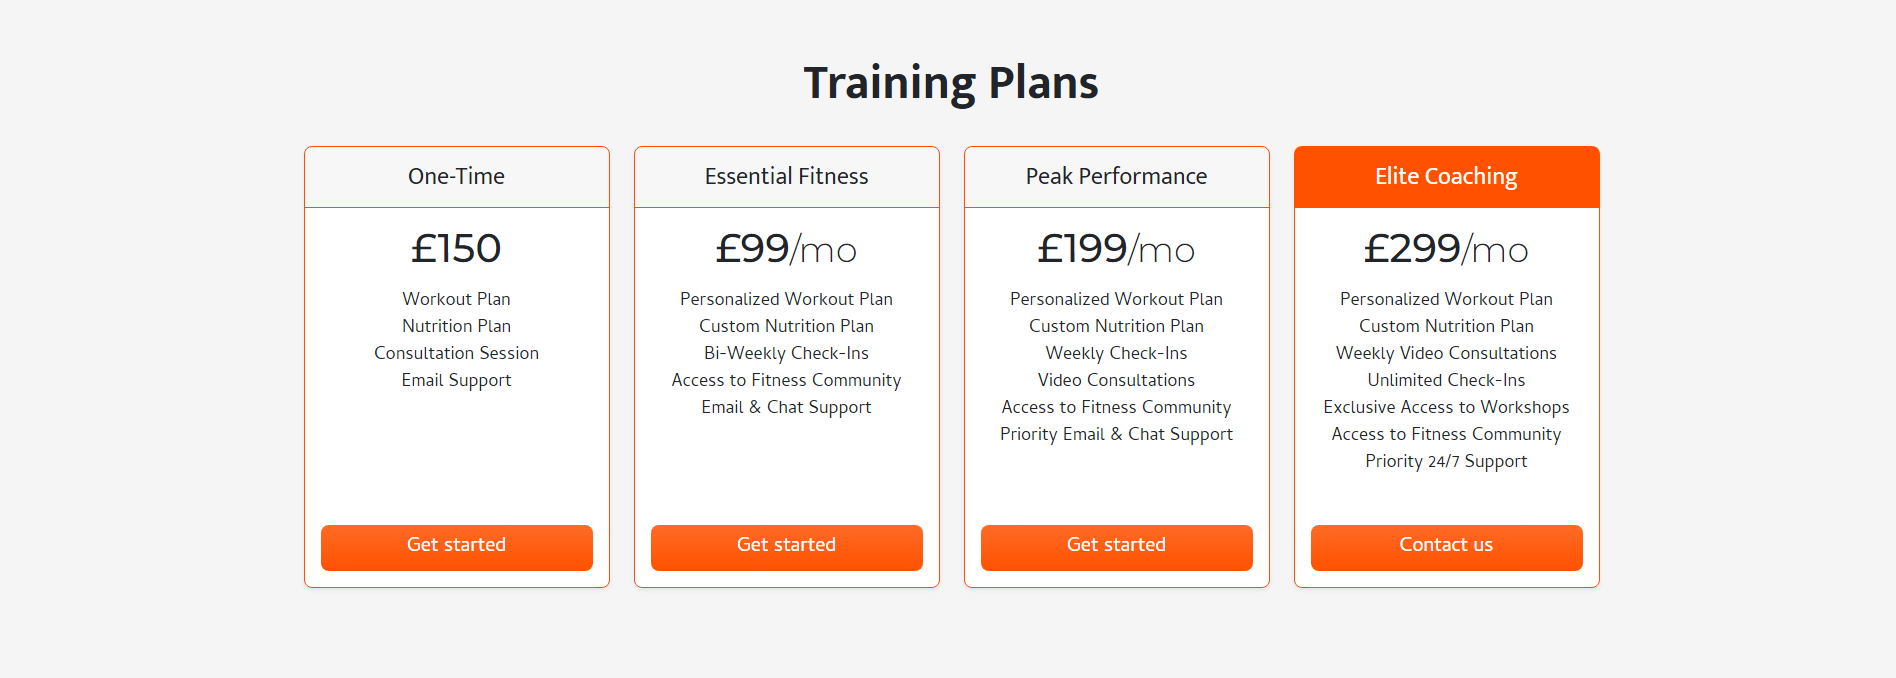
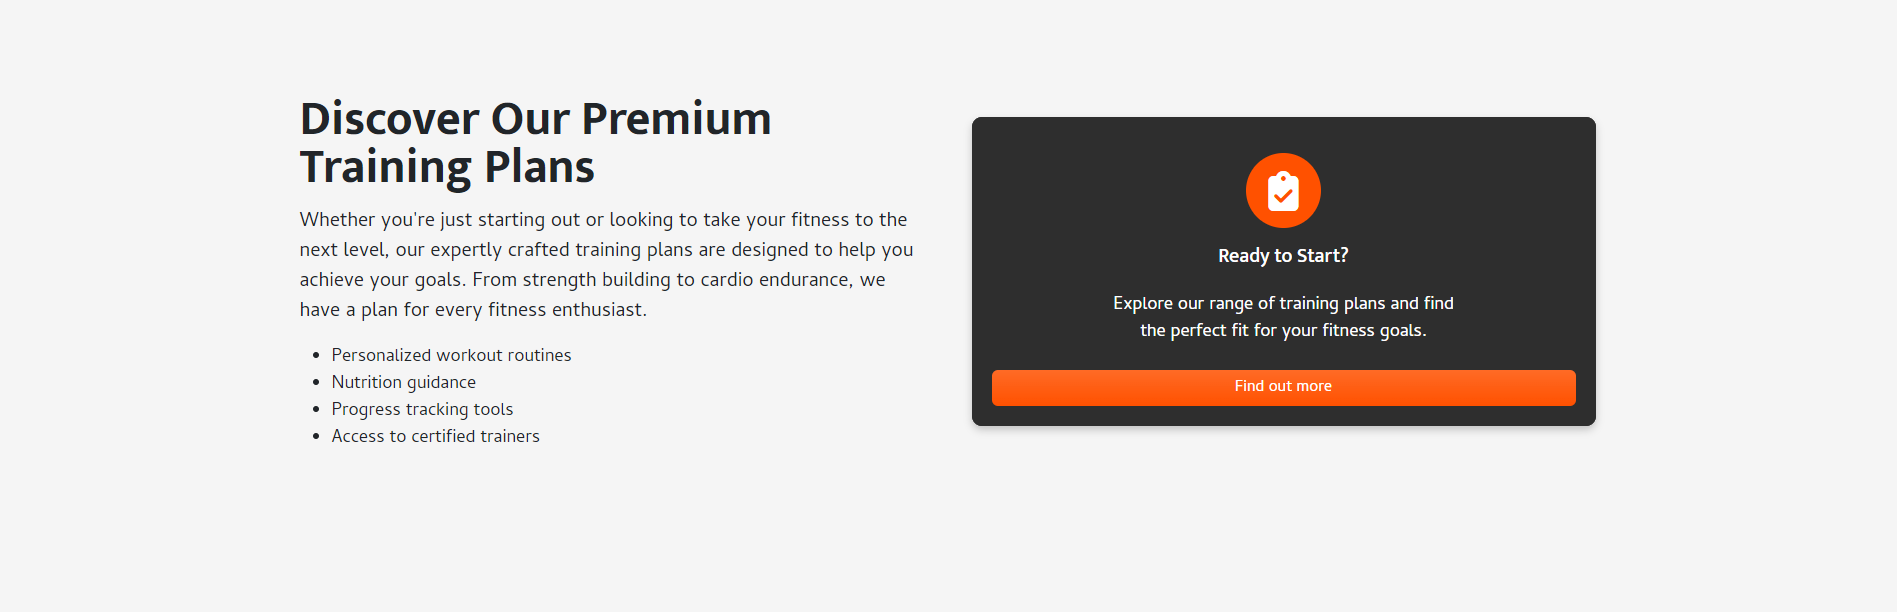
feat: add login page to features

diff --git a/home/templates/home/home.html b/home/templates/home/home.html
@@ -213,15 +213,15 @@
     <div class="container">
         <div class="row flex-lg-row align-items-center g-md-5 py-5">
             <div class="col-lg-6">
-                <h2 class="display-5 fw-bold text-body-emphasis lh-1 mb-3">Discover Our Premium Training Plans</h2>
+                <h2 class="display-5 fw-bold text-body-emphasis lh-1 mb-3">Discover my Premium Training Plans</h2>
                 <p class="coach-desc">Whether you're just starting out or looking to take your fitness to the next level, 
-                    our expertly crafted training plans are designed to help you achieve your goals.
-                    From strength building to cardio endurance, we have a plan for every fitness enthusiast.
+                    my expertly crafted training plans are designed to help you achieve your goals.
+                    From strength building to cardio endurance, I have a plan for every fitness enthusiast.
                     <ul>
                         <li>Personalized workout routines</li>
                         <li>Nutrition guidance</li>
                         <li>Progress tracking tools</li>
-                        <li>Access to certified trainers</li>
+                        <li>Access to a certified trainer</li>
                     </ul>
                 </p>
             </div>
@@ -238,7 +238,7 @@
                             Ready to Start?
                         </h5>
                         <p class="text-center my-3" style="max-width: 350px;">
-                            Explore our range of training plans and find the perfect fit for your fitness goals.
+                            Explore my range of training plans and find the perfect fit for your fitness goals.
                         </p>
                         <div class="col-12 text-center">
                             <a class="btn btn-primary mt-2 w-100 bg-gradient" href="{% url 'plans' %}">Find out more</a>

diff --git a/README.md b/README.md
@@ -59,6 +59,7 @@ I've used CSS `:root` variables to easily update the global colour scheme by cha
 :root {
 --primary-color: #353431;
 --primary-color-highlight: #FF5100;
+--secondary-color-highlight: #FF8F5C;
 /* Bootstrap overrides */
 --bs-body-bg: #f5f5f5;
 --bs-body-font-family: 'Cambay', sans-serif;
@@ -111,7 +112,7 @@ I've used [Figma](https://www.figma.com) to design my site mockups.
 <summary> Click here to see the Home Page Mock-ups</summary>
 
 #### Home
-  - ![screenshot](documentation/wireframes/home/home-mockup1.png)
+   - ![screenshot](documentation/wireframes/home/home-mockup1.png)
 
   - ![screenshot](documentation/wireframes/home/home-mockup2.png)
 
@@ -197,21 +198,21 @@ I've used [Figma](https://www.figma.com) to design my site mockups.
 
     - The site includes a fully responsive navigation bar that adapts to different screen sizes. On mobile devices, the navigation bar collapses into a toggleable menu, enhancing usability for users on the go. The navigation bar provides easy access to essential pages such as Home, About, Plans, FAQ, and Community, ensuring users can quickly navigate the site. For logged-in users, additional options like 'My Profile' and 'Logout' are available, making it easy to manage their account.
 
-![screenshot](documentation/features/feat-responsive-nav1.png)
-![screenshot](documentation/features/feat-responsive-nav2.png)
+		![screenshot](documentation/features/feat-responsive-nav1.png)
+		![screenshot](documentation/features/feat-responsive-nav2.png)
 
 - **Custom Logo**
 
     - The website features a custom logo prominently displayed in the navigation bar, reinforcing brand identity. This visual element helps establish trust and recognition, as users can immediately identify the JB Fit brand. The logo is linked to the homepage, allowing users to return to the main page with a single click.
 
-![screenshot](documentation/features/feat-logo.png)
+		![screenshot](documentation/features/feat-logo.png)
 
 - **Authentication Links**
 
     - Depending on the user's authentication status, the navigation bar dynamically displays relevant options. For unauthenticated users, 'Login' and 'Register' links are provided, encouraging new sign-ups and making it easy for returning users to log in. Authenticated users are presented with 'My Profile' and 'Logout' options, enabling seamless account management.
 
-![screenshot](documentation/features/feat-unauthenticated-user.png)
-![screenshot](documentation/features/feat-authenticated-user.png)
+		![screenshot](documentation/features/feat-unauthenticated-user.png)
+		![screenshot](documentation/features/feat-authenticated-user.png)
 
 ### Footer
 
@@ -219,25 +220,25 @@ I've used [Figma](https://www.figma.com) to design my site mockups.
 
     - The footer includes prominent social media links, allowing users to connect with JB Fit across multiple platforms like Facebook, Instagram, Twitter, LinkedIn, and YouTube. This integration helps build a community around the brand and keeps users engaged with the latest updates and content from JB Fit.
 
-![screenshot](documentation/features/feat-social-links.png)
+		![screenshot](documentation/features/feat-social-links.png)
 
 - **Newsletter Subscription Form**
 
 	- The footer also includes a newsletter subscription form, which is a valuable tool for maintaining communication with users. By subscribing, users receive monthly updates on fitness trends, promotions, and news. This feature is crucial for user retention and driving ongoing engagement.
 
-![screenshot](documentation/features/feat-newsletter.png)
+		![screenshot](documentation/features/feat-newsletter.png)
 
 - **Quick Links Section**
 
 	- A quick links section in the footer provides easy access to the most important pages on the site. This section is especially useful for users who may need to quickly navigate to another part of the site without returning to the top of the page.
 
-![screenshot](documentation/features/feat-quick-links.png)
+		![screenshot](documentation/features/feat-quick-links.png)
 
 - **Custom Footer Branding**
 
 	- The footer is customized to include JB Fit’s branding, including a copyright notice and branding colors. This consistent branding across the site enhances the professional appearance and reinforces the site’s identity.
 
-![screenshot](documentation/features/feat-footer.png)
+		![screenshot](documentation/features/feat-footer.png)
 
 ### Home Page
 
@@ -245,43 +246,43 @@ I've used [Figma](https://www.figma.com) to design my site mockups.
 
     - The hero section is the first thing users see when they visit the website. It features a strong, compelling headline and a call-to-action button that encourages users to start their fitness journey. This section is visually impactful, with a background image that sets the tone for the site, and a clear value proposition that appeals to users looking for personal online fitness coaching.
 
-![screenshot](documentation/features/home/feat-home-hero.png)
+		![screenshot](documentation/features/home/feat-home-hero.png)
 
 - **About**
 
     - The About section introduces the site's founder, Jordan, providing credibility and a personal connection with visitors. It explains Jordan's experience and qualifications, which helps to build trust with potential clients. The section is accompanied by a professional image, further enhancing the personal connection with visitors.
 
-![screenshot](documentation/features/home/feat-home-about.png)
+		![screenshot](documentation/features/home/feat-home-about.png)
 
 - **Online Personal Training**
 
     - This section explains what online personal training is and outlines its benefits, such as flexibility, personalization, accessibility, and affordability. It also includes visually appealing icons that represent each benefit, making it easy for users to understand the advantages of online training at a glance. This section is crucial for educating visitors about the unique value proposition of online training.
 
-![screenshot](documentation/features/home/feat-home-online-pt.png)
+		![screenshot](documentation/features/home/feat-home-online-pt.png)
 
 - **How It Works**
 
     - The "How It Works" section breaks down the process of getting started with JB Fit into four easy steps: Initial Consultation, Personalized Plan, Ongoing Support, and Community Interaction. Each step is visually represented with an icon and a brief description, helping users understand what to expect when they sign up. This transparency is key to converting visitors into clients.
 
-![screenshot](documentation/features/home/feat-home-how-it-works.png)
+		![screenshot](documentation/features/home/feat-home-how-it-works.png)
 
 - **Client Reviews**
 
     - The Client Reviews section features testimonials from satisfied clients, which are essential for building social proof. Each review is accompanied by a star rating and a photo of the client, making the testimonials more relatable and trustworthy. This section helps reassure potential clients of the quality and effectiveness of JB Fit’s services.
 
-![screenshot](documentation/features/home/feat-home-client-review.png)
+		![screenshot](documentation/features/home/feat-home-client-review.png)
 
 - **Training Plans**
 
     - The Training Plans section presents the different packages available, each with a clear breakdown of what’s included and the associated cost. This section is designed to help users easily compare the options and choose the one that best fits their needs. The use of distinct cards for each plan, along with prominent pricing, makes this information easy to digest.
 
-![screenshot](documentation/features/home/feat-home-training-plans.png)
+		![screenshot](documentation/features/home/feat-home-training-plans.png)
 
 - **Contact Form**
 
     - The Contact Form section invites users to get in touch for more information or inquiries, with a prompt to check the FAQ for common questions. This section is designed to facilitate easy communication between potential clients and JB Fit, enhancing the user experience by providing a straightforward way to ask questions or start the sign-up process.
 
-![screenshot](documentation/features/home/feat-home-contact-form.png)
+		![screenshot](documentation/features/home/feat-home-contact-form.png)
 
 ### About Page
 
@@ -289,25 +290,25 @@ I've used [Figma](https://www.figma.com) to design my site mockups.
 
     - The About page opens with a powerful and inspirational quote, which sets a motivational tone for visitors. This section uses a full-width, centred layout with a bold, white font against a hero image, making the quote stand out. The quote encapsulates the philosophy of perseverance and determination, resonating with the core values of the JB Fit coaching program.
 
-![screenshot](documentation/features/about/feat-about-hero.png)
+		![screenshot](documentation/features/about/feat-about-hero.png)
 
 - **Biography**
 
     - The Coach Biography section provides a detailed overview of the coach's background, including academic qualifications, certifications, and professional experience. This section builds credibility and trust by highlighting the coach’s expertise and the personalized approach they bring to their training. The biography is divided into text and bullet points, making it easy for users to digest the information and understand the coach’s qualifications and commitment to continuous learning.
 
-![screenshot](documentation/features/about/feat-about-biography.png)
+		![screenshot](documentation/features/about/feat-about-biography.png)
 
 - **Mission and Vision**
 
     - The Mission and Vision section clearly outlines the purpose and goals of JB Fit. The mission statement emphasizes the commitment to empowering individuals through personalized coaching and supportive community engagement. The vision statement reflects the long-term goals of making professional fitness coaching accessible to all and fostering a culture of health and wellness. This section is essential for communicating the core values and long-term aspirations of the brand to potential clients.
 
-![screenshot](documentation/features/about/feat-about-mission-vision.png)
+		![screenshot](documentation/features/about/feat-about-mission-vision.png)
 
 - **Personal Fitness Philosophy**
 
     - The Personal Fitness Philosophy section is a key feature that showcases the coach's unique approach to fitness. It emphasizes a holistic and sustainable approach to health and wellness, focusing not only on physical strength but also on mental resilience and overall well-being. The section is visually divided into individual cards, each highlighting a different aspect of the coach’s philosophy, such as Individualized Approach, Sustainable Practices, Holistic Health, Continuous Learning, and Community Support. This layout makes the philosophy accessible and relatable to users, encouraging them to connect with the values of JB Fit.
 
-![screenshot](documentation/features/about/feat-about-philosophy.png)
+		![screenshot](documentation/features/about/feat-about-philosophy.png)
 
 ### Plans Page
 
@@ -315,13 +316,13 @@ I've used [Figma](https://www.figma.com) to design my site mockups.
 
     - The Training Plans section offers users a detailed overview of the different fitness packages available at JB Fit. Each plan is presented in a clean, card-based layout, making it easy for users to compare options and select the one that best suits their needs. The plans include various levels of support and customization, from a one-time plan to the comprehensive Elite Coaching package. This section is essential for helping users make informed decisions about their fitness journey and provides clear pricing for each option.
 
-![screenshot](documentation/features/plans/feat-plans-training.png)
+		![screenshot](documentation/features/plans/feat-plans-training.png)
 
 - **Why Choose My Plans?**
 
     - This section highlights the key advantages of choosing JB Fit’s training plans, such as Expertise, Customization, Support, and Results. Each benefit is visually represented with an icon and a brief description, reinforcing the value of the services offered. This section is designed to build trust and confidence in potential clients by emphasizing the quality and effectiveness of the plans.
 
-![screenshot](documentation/features/plans/feat-plans-why-choose.png)
+		![screenshot](documentation/features/plans/feat-plans-why-choose.png)
 
 ### FAQ Page
 
@@ -329,44 +330,78 @@ I've used [Figma](https://www.figma.com) to design my site mockups.
 
     - The FAQ section is designed with an accordion layout, which organizes frequently asked questions into expandable panels. This structure makes it easy for users to find answers to their specific questions without having to scroll through long blocks of text. The accordion is divided into multiple categories such as General Questions, Services & Packages, Pricing & Payments, Personalized Plans, Support & Community, and Getting Started. Each category addresses key areas of interest for potential and current clients, providing detailed and helpful information to guide them through their fitness journey with JB Fit.
 
-![screenshot](documentation/features/faq/feat-faq-accordian-open.png)
-![screenshot](documentation/features/faq/feat-faq-accordian-closed.png)
+		![screenshot](documentation/features/faq/feat-faq-accordian-open.png)
+		![screenshot](documentation/features/faq/feat-faq-accordian-closed.png)
 
 - **General Questions**
 
     - This section addresses broad, introductory questions about JB Fit, such as what the platform is and how online personal training works. It helps new visitors quickly understand the core services offered and the benefits of choosing JB Fit for their fitness needs.
 
-![screenshot](documentation/features/faq/feat-faq-accordian-open.png)
+		![screenshot](documentation/features/faq/feat-faq-accordian-open.png)
 
 - **Services & Packages**
 
     - The Services & Packages section provides detailed information about the various services available and helps users decide which package is right for them. This section is crucial for helping potential clients understand the offerings and make an informed decision about which plan best suits their fitness goals.
 
-![screenshot](documentation/features/faq/feat-faq-services.png)
+		![screenshot](documentation/features/faq/feat-faq-services.png)
 
 - **Pricing & Payments**
 
     - This section covers important information about payment methods, discounts, and cancellation policies. It ensures that users are fully informed about the financial aspects of signing up for JB Fit services, providing transparency and building trust with potential clients.
 
-![screenshot](documentation/features/faq/feat-faq-pricing.png)
+		![screenshot](documentation/features/faq/feat-faq-pricing.png)
 
 - **Personalized Plans**
 
     - The Personalized Plans section explains how JB Fit customizes workout and nutrition plans based on each client's unique needs and preferences. It highlights the flexibility and personalized attention clients receive, which are key selling points for JB Fit's services.
 
-![screenshot](documentation/features/faq/feat-faq-personalized-plans.png)
+		![screenshot](documentation/features/faq/feat-faq-personalized-plans.png)
 
 - **Support & Community**
 
     - This section outlines the various levels of support available to clients, including check-ins, email and chat support, video consultations, and access to a supportive community. It emphasizes the ongoing support that clients receive, which is essential for maintaining motivation and achieving long-term success.
 
-![screenshot](documentation/features/faq/feat-faq-support-community.png)
+		![screenshot](documentation/features/faq/feat-faq-support-community.png)
 
 - **Getting Started**
 
     - The Getting Started section provides a step-by-step guide for new clients on how to begin their journey with JB Fit. It covers the initial consultation process and the information required to create a personalized plan. This section is designed to make onboarding new clients as smooth and straightforward as possible.
 
-![screenshot](documentation/features/faq/feat-faq-getting-started.png)
+		![screenshot](documentation/features/faq/feat-faq-getting-started.png)
+
+### Login Page
+
+- **Login Form**
+
+	- The login form is designed to provide a seamless and user-friendly experience for users trying to access their accounts. It includes standard input fields for the username/email and password, and a visually appealing layout that aligns with the overall JB Fit branding. The form is easy to navigate, and the use of clear labels and placeholders ensures that users can quickly understand the required information. The design includes responsive elements to ensure compatibility with various device sizes, providing a consistent experience across desktops, tablets, and mobile devices.
+
+		![screenshot](documentation/features/login/feat-login-page.png)
+
+- **Error Handling and Validation**
+
+	- The login form includes robust error handling and validation features to guide users when inputting incorrect information. If errors occur, such as missing or incorrect credentials, clear and concise error messages are displayed within the form. These error messages are highlighted in a distinct alert box with a close button, making it easy for users to correct their inputs and resubmit the form. This functionality improves the overall user experience by providing immediate feedback and reducing the frustration of multiple failed login attempts.
+
+		![screenshot](documentation/features/login/feat-login-validation.png)
+
+- **Forgot Password Link**
+
+	- A "Forgot Password?" link is prominently placed beneath the login button, allowing users who have forgotten their passwords to easily initiate the password reset process. This feature is crucial for user retention, as it provides a straightforward path to regain account access, thereby reducing barriers and potential drop-offs due to forgotten credentials.
+
+		![screenshot](documentation/features/login/feat-login-reset-password-link.png)
+
+- **Sign-Up Redirect**
+
+	- The login page also includes a prompt for users who do not have an account, directing them to the registration page with a "Sign up" link. This feature encourages new user acquisition by providing a clear call-to-action for potential clients who have landed on the login page but have yet to create an account. It seamlessly integrates the onboarding process, making it easy for new users to join JB Fit.
+
+		![screenshot](documentation/features/login/feat-sign-up-link.png)
+
+- **Registration Page**
+
+	- The sign-up page provides a comprehensive and intuitive interface for new users to create an account. It includes fields for entering essential details such as first and last names, email, and password. Users can also specify their gender by selecting from "Male," "Female," or "Other" options. The form requires users to confirm their password by entering it twice, ensuring accuracy and reducing the likelihood of login issues later. Additionally, a date of birth field with a calendar picker enhances usability, making it easy for users to input their information correctly.<br>
+	The page features a "Sign Up" button to submit the registration form and create an account. If a user already has an account, a convenient login link is provided to redirect them to the login page. The layout maintains a clean, modern design with a user-friendly color scheme that emphasizes accessibility and ease of navigation, offering a smooth onboarding experience.
+
+		![screenshot](documentation/features/feat-sign-up.png)
+
 
 ## Tools & Technologies Used
 
